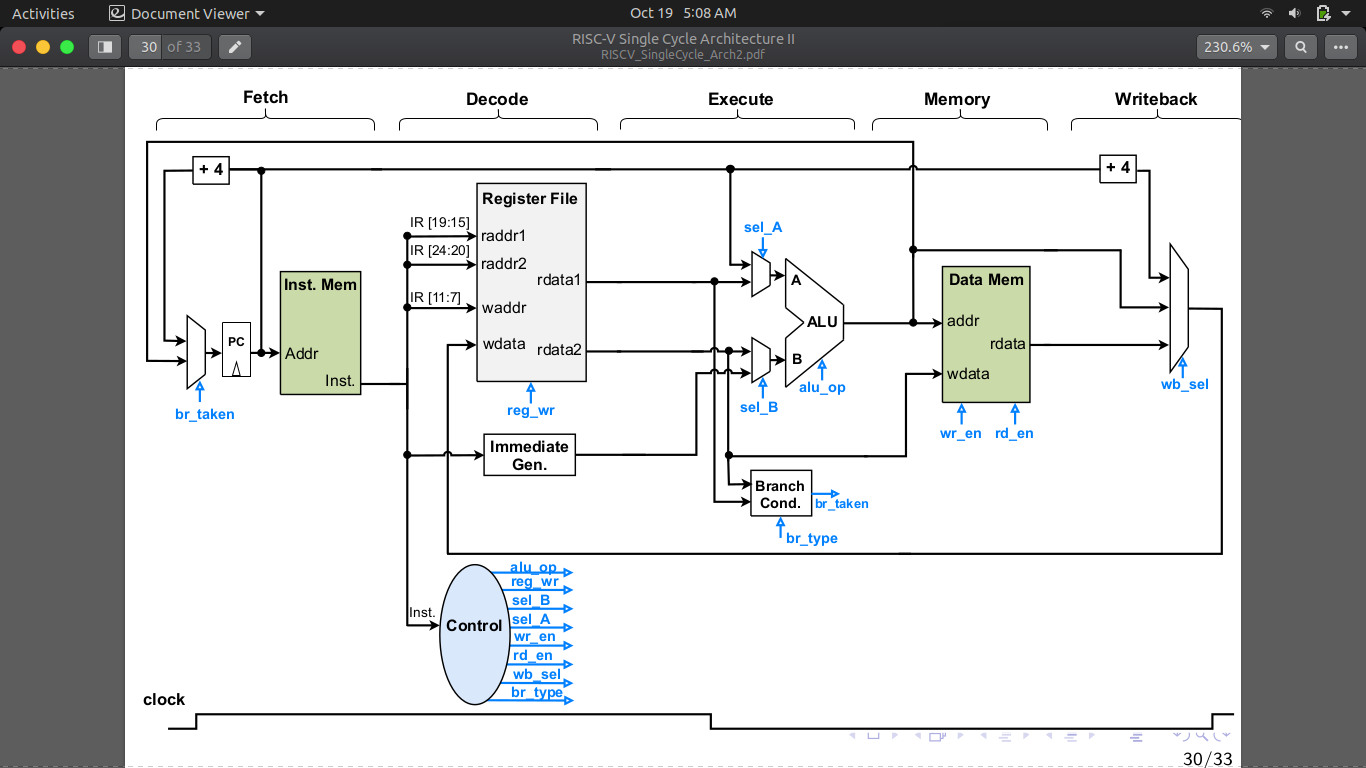
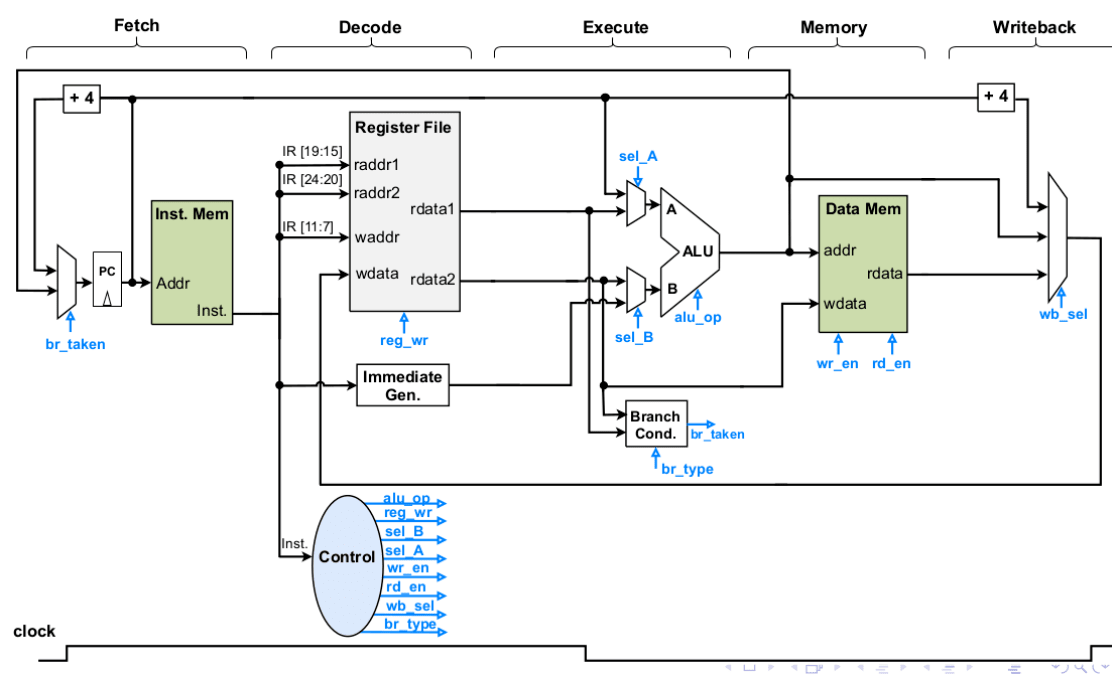
Single Cycle RV32I: Completed 1.1

diff --git a/Single_Cycle/Assembler_Resources/assembler.py b/Single_Cycle/Assembler_Resources/assembler.py
@@ -1,0 +1,12 @@
+import os
+path1 = "/home/abd/ComputerArchitecture/ComputerArchitectureLAB/Single_Cycle/AssmblerResources"
+path2 = "/home/abd/ComputerArchitecture/ComputerArchitectureLAB/Single_Cycle/Design_Sources"
+w = os.path.join(path2,"code.mem")
+r = os.path.join(path1,"assembly")
+read = open(r,"r") 
+write = open(w,"w")
+#write.write("0\n")
+for x in read:
+    write.write(x[14:22] + '\n')
+write.close()
+read.close()

diff --git a/Single_Cycle/README.md b/Single_Cycle/README.md
@@ -1,2 +1,56 @@
-# Single-Cycle-RV
-Implementation of single cycle RISC-V processor in verilog
+# Single Cycle RV32I
+This is the readme file to demonstrate the 32-bit Single Cycle RISC-V processor with all the base instructions.
+
+## Design
+The following datapath and controller design is implemented in verilog, simulated in VIVADO design suit 2018 and synthesize for the Nexys-A7 FPGA board.
+![fig1](SC_RV32I.png)
+
+## Instruction Set Architecture
+RISC-V 32-bit Integer type ISA is implemented as part of the single cycle processor. It includes the following type of instruction;
+* R-type
+* I-type 
+* U-type
+* B-type
+* Load and Store type with word, half word and byte memory access.
+* J-type
+
+The list of all the instructions implemented in this project are listed below;
+![](Assembly_instructions.png)
+
+For more information regarding RV32I ISA and the working of its each instruction, refer to this [page](https://msyksphinz-self.github.io/riscv-isadoc/html/rvi.html#).
+
+## Documentation
+This project contains three main directories;
+#### 1. Design_Sources
+In this directory, the following verilog modules are present;
+* ALU.v
+* Branch.v
+* ControlUnit.v
+* Data_Memory.v
+* DecodeUnit.v
+* extend.v
+* Instruction_Memory.v
+* register_file.v
+* top_level.v
+* code.mem
+
+Here, code.mem is the memroy file which contains the machine code for the program that will be executed on the processor. **code.mem** is initialized with the machine code that will calculate the GCD of two numbers. Also, **top_level.v** is the main module in which all the remaining modules are being called and concatenated to complete the whole datapath.
+
+#### 2. Test_Benches
+In this directory, the testbenches of every main design source is present along with the testbench of top module which is named as **toplevel_TB.v**. 
+
+#### 3. Assembler_Resources
+This directory contains the resources for assembling the RISC-V assembly program to generate the machine code and dump that machine code into code.mem. The RISC-V assembly code and its corresponding machine code is obtained using **venus simulator** and saved in the file named "assembly". Then python text parsing is used to extract the machine code and dump it into the **code.mem** file.
+
+## DEMO
+* **Step 1**: Create a Vivado project.
+* **Step 2**: Import all the files as design source file present in Design_Sources directory.
+* **Step 3**: Import toplevel_TB.v file from Test_Benches directory as simulation source file.
+* **Step 1**: Run the simulation and observe the registers of Data Memory and Register File which are declared as output of the toplevel.v module.
+
+Note: By default, the machine code of GCD is dumped into the code.mem file. If you want to change the program using the venus simulator extention in VScode, then change the line number 2 and 3 and set path according to your local directories. Otherwise, simply dump the machine of your choice in code.mem file and simulate.
+
+## Simulation
+The assembly program of GCD is given in **assem.s** file inside the Assembler_Resources directory. It uses the x1 and x2 registers of Regiter File and first two registers of Data Memory for the numbers whose GCD is being calculated. And the result is stored in the third register (at memory location of 8) inside the Data Memory. 
+The simulated results are shown as follows;
+![](Simulation.png)
